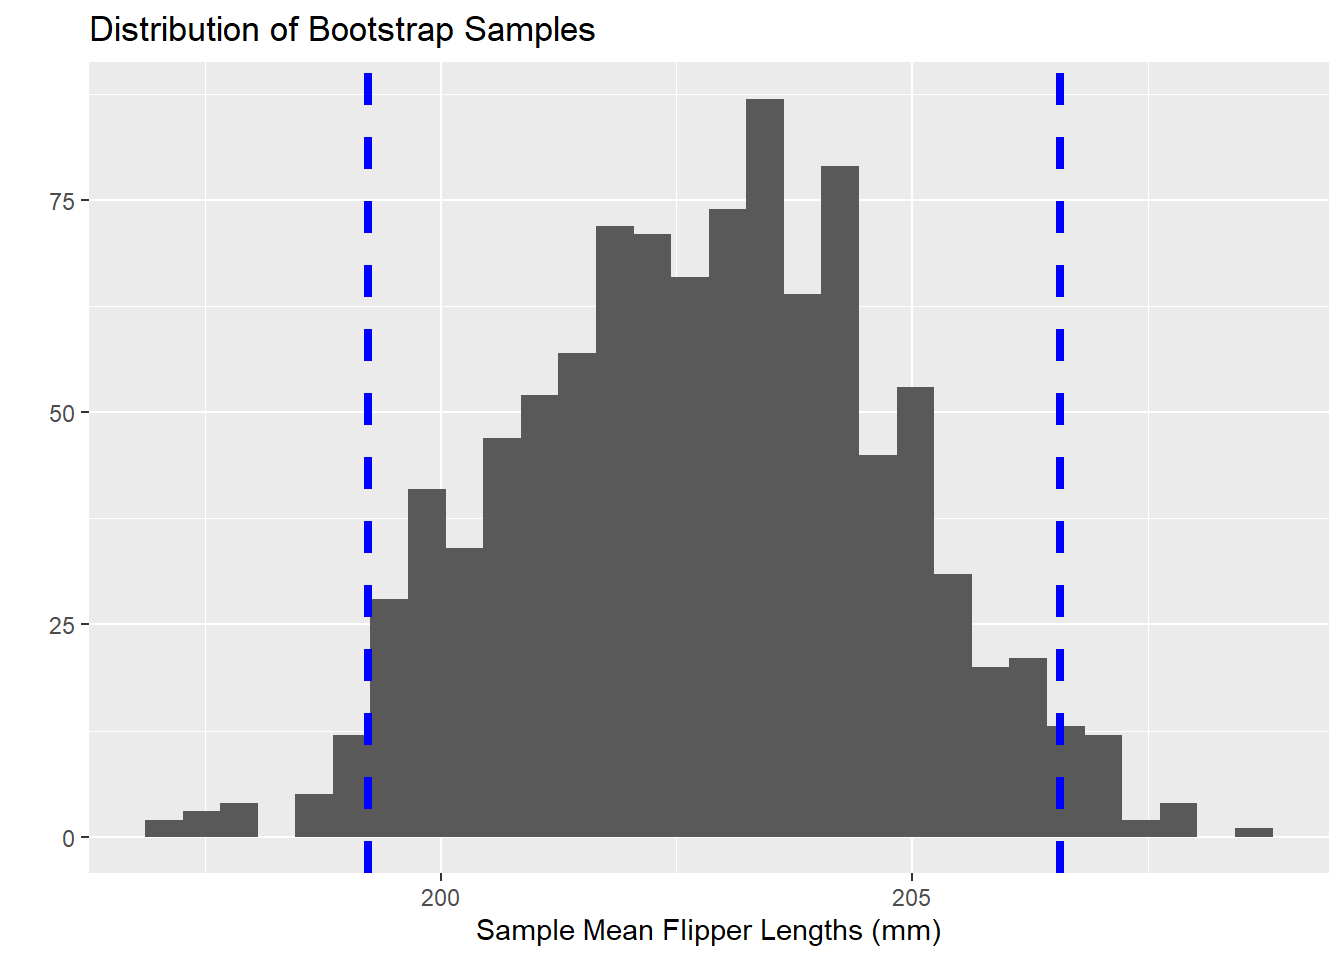
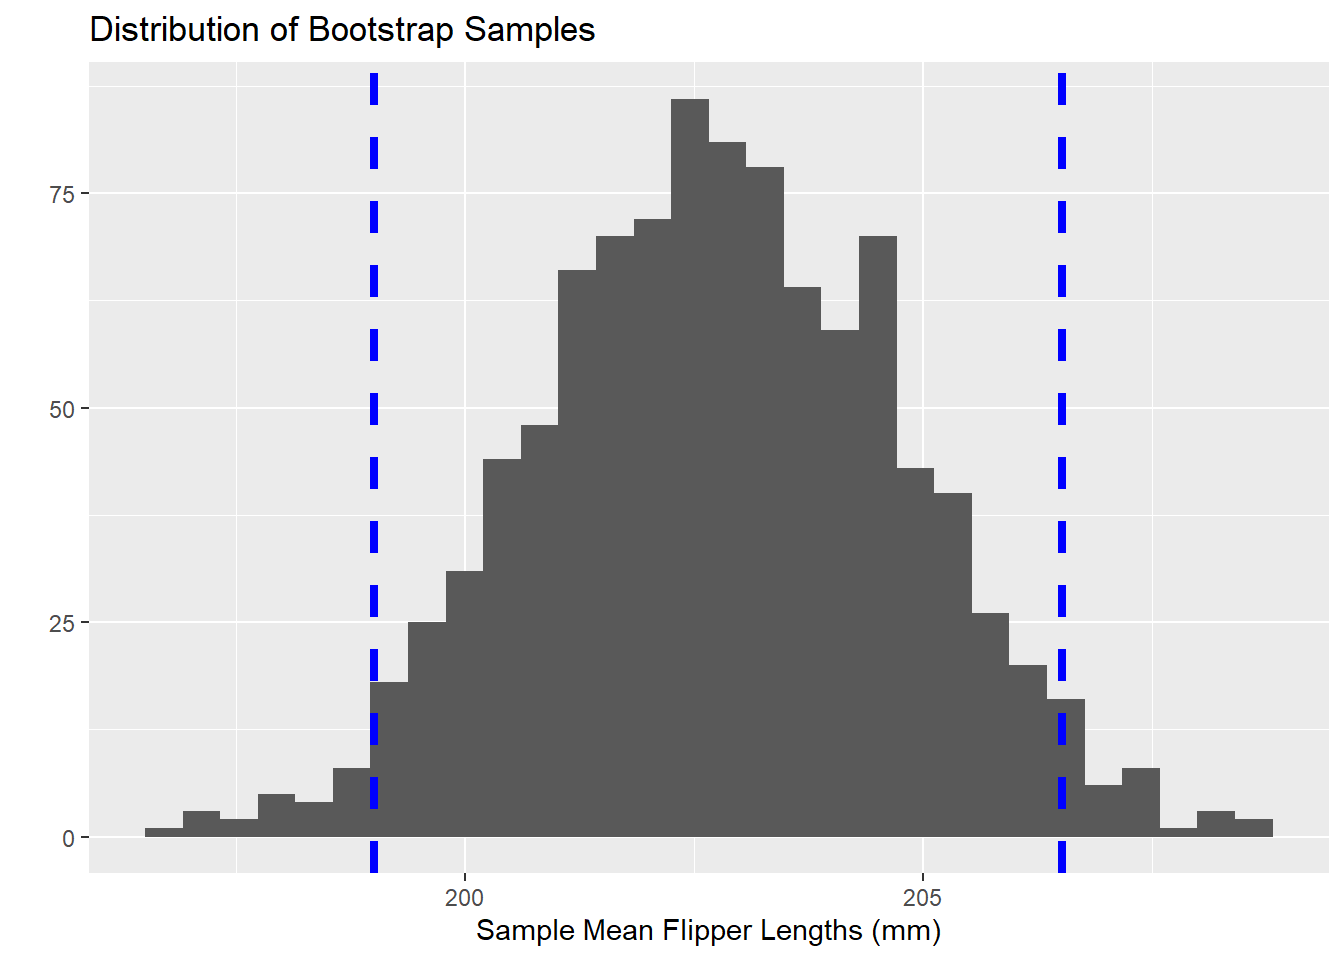
Notebook order updates

diff --git a/ClassicalInferenceAndSimulationBasedInference.html b/ClassicalInferenceAndSimulationBasedInference.html
@@ -181,10 +181,10 @@ code span.wa { color: #60a0b0; font-weight: bold; font-style: italic; } /* Warni
 <div class="sourceCode cell-code" id="cb3"><pre class="sourceCode r code-with-copy"><code class="sourceCode r"><span id="cb3-1"><a href="#cb3-1" aria-hidden="true" tabindex="-1"></a><span class="fu">quantile</span>(sample_means, <span class="fu">c</span>(<span class="fl">0.025</span>, <span class="fl">0.975</span>))</span></code><button title="Copy to Clipboard" class="code-copy-button"><i class="bi"></i></button></pre></div>
 <div class="cell-output cell-output-stdout">
 <pre><code>    2.5%    97.5% 
-199.2273 206.5682 </code></pre>
+199.0000 206.5239 </code></pre>
 </div>
 </div>
-<p>We can now claim, with <span class="math inline">\(95\)</span>% confidence, that the population mean flipper length for penguins falls somewhere between 199.23mm and 206.57mm. Visually, what we’ve done appears below – with the confidence interval bounds represented by the two vertical dashed lines.</p>
+<p>We can now claim, with <span class="math inline">\(95\)</span>% confidence, that the population mean flipper length for penguins falls somewhere between 199mm and 206.52mm. Visually, what we’ve done appears below – with the confidence interval bounds represented by the two vertical dashed lines.</p>
 <div class="cell">
 <div class="sourceCode cell-code" id="cb5"><pre class="sourceCode r code-with-copy"><code class="sourceCode r"><span id="cb5-1"><a href="#cb5-1" aria-hidden="true" tabindex="-1"></a><span class="fu">ggplot</span>() <span class="sc">+</span></span>
 <span id="cb5-2"><a href="#cb5-2" aria-hidden="true" tabindex="-1"></a>  <span class="fu">geom_histogram</span>(<span class="fu">aes</span>(<span class="at">x =</span> sample_means)) <span class="sc">+</span></span>
@@ -250,7 +250,7 @@ code span.wa { color: #60a0b0; font-weight: bold; font-style: italic; } /* Warni
 <span id="cb9-3"><a href="#cb9-3" aria-hidden="true" tabindex="-1"></a>bootstrapped_p_value <span class="ot">&lt;-</span> <span class="dv">2</span><span class="sc">*</span>(num_extreme <span class="sc">/</span> num_samps)</span>
 <span id="cb9-4"><a href="#cb9-4" aria-hidden="true" tabindex="-1"></a>bootstrapped_p_value</span></code><button title="Copy to Clipboard" class="code-copy-button"><i class="bi"></i></button></pre></div>
 <div class="cell-output cell-output-stdout">
-<pre><code>[1] 0.012</code></pre>
+<pre><code>[1] 0.01</code></pre>
 </div>
 </div>
 <p>Since we’ve obtained a Bootstrapped <span class="math inline">\(p\)</span>-value below <span class="math inline">\(0.05\)</span>, we have statistically significant evidence to suggest that our penguin flipper lengths do not come from a normal distribution with mean <span class="math inline">\(200\)</span>mm and standard deviation <span class="math inline">\(7\)</span>mm. Three things are possible here:</p>
@@ -319,7 +319,7 @@ code span.wa { color: #60a0b0; font-weight: bold; font-style: italic; } /* Warni
 <span id="cb13-2"><a href="#cb13-2" aria-hidden="true" tabindex="-1"></a>bootstrapped_p_value <span class="ot">&lt;-</span> <span class="dv">2</span><span class="sc">*</span>(extreme_samples<span class="sc">/</span>num_samps)</span>
 <span id="cb13-3"><a href="#cb13-3" aria-hidden="true" tabindex="-1"></a>bootstrapped_p_value</span></code><button title="Copy to Clipboard" class="code-copy-button"><i class="bi"></i></button></pre></div>
 <div class="cell-output cell-output-stdout">
-<pre><code>[1] 0.914</code></pre>
+<pre><code>[1] 0.954</code></pre>
 </div>
 </div>
 <p>The Bootstrapped <span class="math inline">\(p\)</span>-value above indicates that our difference in average flipper lengths, where <code>sex</code> was a meaningful variable was not an outlier in the distribution of differences where <code>sex</code> was a truly meaningless variable. That is, there is no evidence here to suggest a difference in mean flipper lengths across the two sexes of penguin.</p>

diff --git a/GeneratingHypotheses.html b/GeneratingHypotheses.html
@@ -138,11 +138,7 @@ code span.wa { color: #60a0b0; font-weight: bold; font-style: italic; } /* Warni
 <ol type="1">
 <li>Look through the data sets that Dr.&nbsp;Duryea and Dr.&nbsp;Gilbert have posted. Identify the one that you’d like to work with over the next two weeks.</li>
 <li>Go to GitHub and create a new repository for your analyses – title it accordingly.</li>
-</ol>
-<ul>
-<li>Initialize that repository witha <code>README</code> file and leave all of the defaults selected.</li>
-</ul>
-<ol start="3" type="1">
+<li>Initialize that repository with a <code>README</code> file and leave all of the defaults selected.</li>
 <li>Click on the green <em>Code</em> icon and copy the URL for the repository.</li>
 <li>Open RStudio and go to <code>File -&gt; New Project</code>, choose to create a new project from Version Control and use <em>Git</em>. Paste your repository’s URL into the URL field and then click the <em>Create Project</em> button.</li>
 <li>Open a new Quarto Notebook in your project and save it using a meaningful file name.</li>
@@ -158,7 +154,7 @@ code span.wa { color: #60a0b0; font-weight: bold; font-style: italic; } /* Warni
 <span id="cb1-6"><a href="#cb1-6" aria-hidden="true" tabindex="-1"></a>exploratory_data <span class="ot">&lt;-</span> <span class="fu">training</span>(my_data_splits)</span>
 <span id="cb1-7"><a href="#cb1-7" aria-hidden="true" tabindex="-1"></a>test_data <span class="ot">&lt;-</span> <span class="fu">testing</span>(my_data_splits)</span></code><button title="Copy to Clipboard" class="code-copy-button"><i class="bi"></i></button></pre></div>
 </div>
-<ol start="4" type="1">
+<ol start="9" type="1">
 <li><p>Look at your <code>exploratory_data</code> identify some interesting questions after you understand the variables included in your data set.</p></li>
 <li><p>Conduct exploratory analyses to generate some hypotheses about the answers to your interesting questions. Write those hypotheses down.</p></li>
 <li><p>Use the <em>Git</em> tab in the top-right of the RStudio window to <code>Pull -&gt; Commit -&gt; Push</code> your changes to your repository.</p></li>

diff --git a/GeneratingHypotheses.md b/GeneratingHypotheses.md
@@ -24,13 +24,12 @@ Please complete the following tasks using what you've learned about R and explor
 
 1. Look through the data sets that Dr. Duryea and Dr. Gilbert have posted. Identify the one that you'd like to work with over the next two weeks.
 2. Go to GitHub and create a new repository for your analyses -- title it accordingly.
-
-  + Initialize that repository witha `README` file and leave all of the defaults selected.
-3. Click on the green *Code* icon and copy the URL for the repository.
-4. Open RStudio and go to `File -> New Project`, choose to create a new project from Version Control and use *Git*. Paste your repository's URL into the URL field and then click the *Create Project* button.
-5. Open a new Quarto Notebook in your project and save it using a meaningful file name.
-2. Read your data into your quarto notebook.
-3. Split your data into exploratory and test data using code of the following form:
+3. Initialize that repository with a `README` file and leave all of the defaults selected.
+4. Click on the green *Code* icon and copy the URL for the repository.
+5. Open RStudio and go to `File -> New Project`, choose to create a new project from Version Control and use *Git*. Paste your repository's URL into the URL field and then click the *Create Project* button.
+6. Open a new Quarto Notebook in your project and save it using a meaningful file name.
+7. Read your data into your quarto notebook.
+8. Split your data into exploratory and test data using code of the following form:
 
 ::: {.cell}
 
@@ -46,9 +45,9 @@ test_data <- testing(my_data_splits)
 :::
 
 
-4. Look at your `exploratory_data` identify some interesting questions after you understand the variables included in your data set.
+9. Look at your `exploratory_data` identify some interesting questions after you understand the variables included in your data set.
 
-5. Conduct exploratory analyses to generate some hypotheses about the answers to your interesting questions. Write those hypotheses down.
+10. Conduct exploratory analyses to generate some hypotheses about the answers to your interesting questions. Write those hypotheses down.
 
-6. Use the *Git* tab in the top-right of the RStudio window to `Pull -> Commit -> Push` your changes to your repository.
+11. Use the *Git* tab in the top-right of the RStudio window to `Pull -> Commit -> Push` your changes to your repository.
 

diff --git a/NotebookOrder.md b/NotebookOrder.md
@@ -16,18 +16,18 @@ The order of the scripted notebooks encountered in the BIO422 *Introduction to B
 
 Part I: Introduction
 
-1. `SoftwareSetup` (Draft: $\checkmark$, Final: ?)
-2. `MyFirstRepoAndCommit` (Draft: $\checkmark$, Final: ?)
-3. `TidyAnalysesInR` (Draft: $\checkmark$, Final: ?)
-4. `FromDescriptionToInference` (Draft: $\checkmark$, Final: ?)
-5. `ClassicalInferenceAndSimulationBasedInference` (Draft: $\checkmark$, Final: ?)
+1.  `SoftwareSetup` (Draft: $\checkmark$, Final: ?)
+2.  `MyFirstRepoAndCommit` (Draft: $\checkmark$, Final: ?)
+3.  `TidyAnalysesInR` (Draft: $\checkmark$, Final: ?)
+4.  `FromDescriptionToInference` (Draft: $\checkmark$, Final: ?)
+5.  `ClassicalInferenceAndSimulationBasedInference` (Draft: $\checkmark$, Final: ?)
 
 Part II: Biostatistics
 
-6. `GeneratingHypotheses` (Draft: $\checkmark$, Final: )
-7. `ExploratoryDataAnalysisAndReporting` (Draft: $\checkmark$ , Final: )
-8. `InferenceAndReporting` (Draft: $\checkmark$, Final: )
-9. `GitHubPagesAndPublishing` (Draft: $\checkmark$, Final: )
+6.  `GeneratingHypotheses` (Draft: $\checkmark$, Final: )
+7.  `ExploratoryDataAnalysisAndReporting` (Draft: $\checkmark$ , Final: )
+8.  `InferenceAndReporting` (Draft: $\checkmark$, Final: )
+9.  `GitHubPagesAndPublishing` (Draft: $\checkmark$, Final: )
 
 Part III: Bioinformatics
 
@@ -44,8 +44,8 @@ Part IV: Projects
 
 Unused
 
-1. `GenomeAssembly_Intro`
-2. `GenomeAssembly_PartI`
-3. `GenomeAssembly_PartII`
-4. `GenomeAssembly_PartIII`
-5. `GenomeAssembly_PartIV`
+1.  `GenomeAssembly_Intro`
+2.  `GenomeAssembly_PartI`
+3.  `GenomeAssembly_PartII`
+4.  `GenomeAssembly_PartIII`
+5.  `GenomeAssembly_PartIV`

diff --git a/ClassicalInferenceAndSimulationBasedInference.md b/ClassicalInferenceAndSimulationBasedInference.md
@@ -94,13 +94,13 @@ quantile(sample_means, c(0.025, 0.975))
 ::: {.cell-output .cell-output-stdout}
 ```
     2.5%    97.5% 
-199.2273 206.5682 
+199.0000 206.5239 
 ```
 :::
 :::
 
 
-We can now claim, with $95$% confidence, that the population mean flipper length for penguins falls somewhere between 199.23mm and 206.57mm. Visually, what we've done appears below -- with the confidence interval bounds represented by the two vertical dashed lines.
+We can now claim, with $95$% confidence, that the population mean flipper length for penguins falls somewhere between 199mm and 206.52mm. Visually, what we've done appears below -- with the confidence interval bounds represented by the two vertical dashed lines.
 
 
 ::: {.cell}
@@ -195,7 +195,7 @@ bootstrapped_p_value
 
 ::: {.cell-output .cell-output-stdout}
 ```
-[1] 0.012
+[1] 0.01
 ```
 :::
 :::
@@ -282,7 +282,7 @@ bootstrapped_p_value
 
 ::: {.cell-output .cell-output-stdout}
 ```
-[1] 0.914
+[1] 0.954
 ```
 :::
 :::
